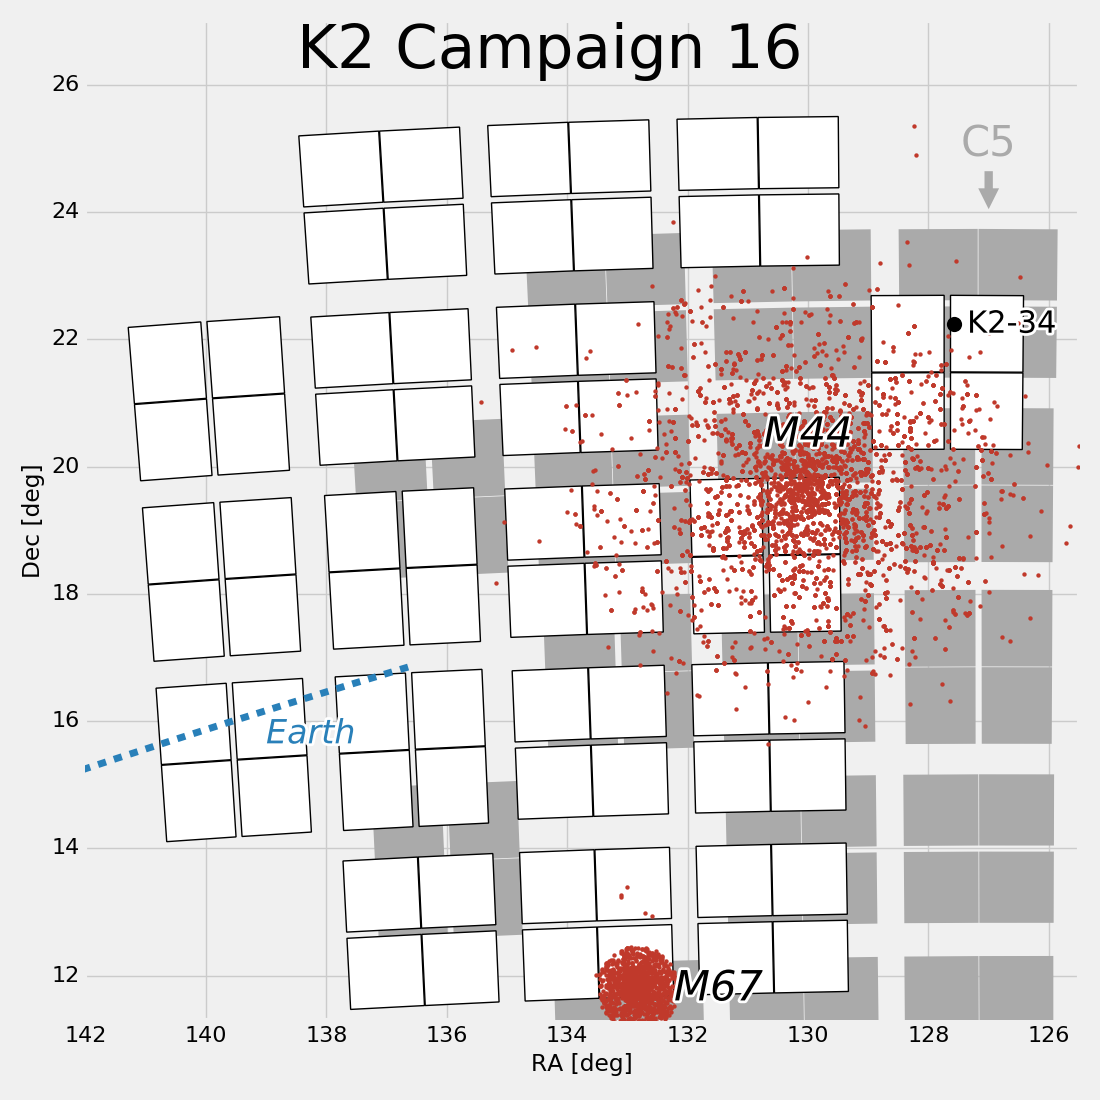
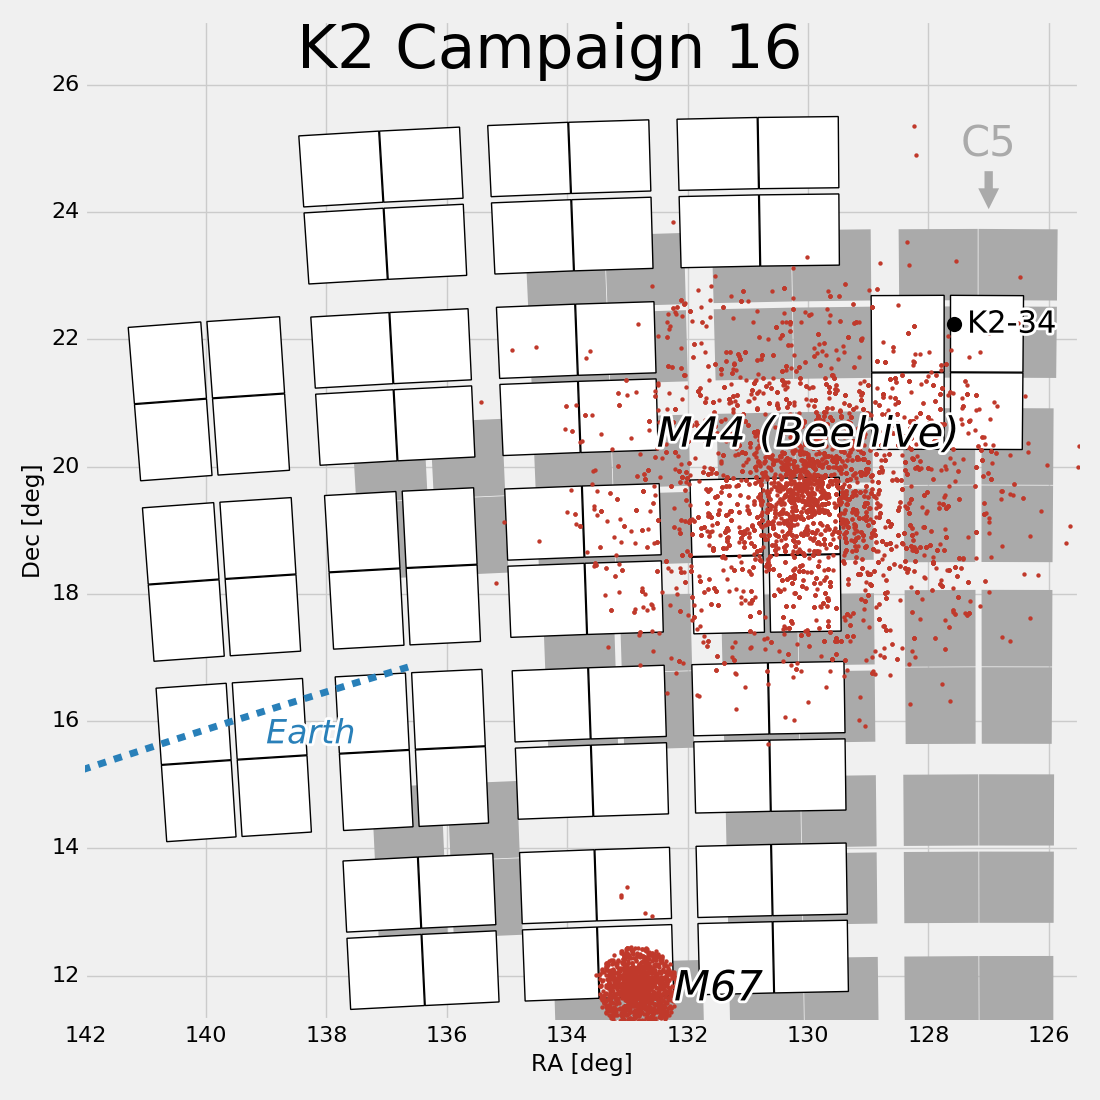
Add c4 and c5 plots

Changed region(s): [[0.5873, 0.3709, 0.8655, 0.4327]]

diff --git a/plot-c5.py b/plot-c5.py
@@ -6,40 +6,43 @@ from K2fov import plot
 
 from fieldplot import annotate_target
 
-CAMPAIGN = 7
+CAMPAIGN = 5
 
 style.use('gray.mplstyle')
 p = plot.K2FootprintPlot(figsize=(11, 11))
+p.plot_campaign(16, annotate_channels=False, facecolor='#aaaaaa', lw=0)
 p.plot_campaign(CAMPAIGN, annotate_channels=False, facecolor='white', lw=1)
 
+pl.annotate('C16', xy=(137, 11.5), xycoords='data', ha='center',
+            xytext=(10, -60), textcoords='offset points',
+            size=30, zorder=99999, color='#aaaaaa',
+            arrowprops=dict(arrowstyle="simple",
+                            fc="#aaaaaa", ec="none",
+                            connectionstyle="arc3,rad=0.0"),
+            )
 
-# Plot the Ruprecht 147 cluster
+# Plot the Beehive cluster
 import pandas as pd
-df = pd.read_csv('catalogs/ruprecht147.csv')
+df = pd.read_csv('catalogs/beehive.csv')
 for member in df.iterrows():
     annotate_target(member[1].RA_d, member[1].DEC_d, "", size=10, color='#c0392b')
-text = pl.text(288.8 - 0.6, -16.5, 'Ruprecht 147', style='italic', color='#c0392b',
+text = pl.text(130., 20.5, 'M44 (Beehive)', style='italic', color='black',
+               zorder=999, fontsize=30, va='center', ha='center')
+text.set_path_effects([path_effects.Stroke(linewidth=4, foreground='white'),
+                       path_effects.Normal()])
+
+# Plot the M67 cluster
+df = pd.read_csv('catalogs/m67.csv')
+for member in df.iterrows():
+    annotate_target(member[1].RA_d, member[1].DEC_d, "", size=10, color='#c0392b')
+text = pl.text(132.8250 - 0.6, +11.8000, 'M67', style='italic', color='black',
                zorder=999, fontsize=30, va='center')
 text.set_path_effects([path_effects.Stroke(linewidth=4, foreground='white'),
                        path_effects.Normal()])
 
-
-# Plot Pluto
-ra = [284.29952, 284.14349, 284.02927, 283.96645, 283.94460,
-      283.97556, 284.06026, 284.19801, 284.47543]
-dec = [-20.95824, -20.99379, -21.02622, -21.05229, -21.07735,
-       -21.09791, -21.11365, -21.12435, -21.13067]
-pl.plot(ra, dec, lw=4, zorder=500, c='#2980b9')
-text = pl.text(284.9, -21.5, 'Pluto', zorder=999, style='italic',
-               fontsize=22, va='center', color='#2980b9')
-text.set_path_effects([path_effects.Stroke(linewidth=4, foreground='white'),
-                       path_effects.Normal()])
-
-annotate_target(283.77517, -22.70147, "NGC 6717", extended=True)
-
 pl.suptitle('K2 Campaign {}'.format(CAMPAIGN), fontsize=44)
-pl.xlim([297, 279])
-pl.ylim([-31.5, -14.1])
+pl.xlim([139, 122.5])
+pl.ylim([9.5, 25.9])
 p.ax.xaxis.set_major_locator(MultipleLocator(2))
 p.ax.yaxis.set_major_locator(MultipleLocator(2))
 pl.tight_layout()

diff --git a/plot-c4.py b/plot-c4.py
@@ -6,16 +6,16 @@ from K2fov import plot
 
 from fieldplot import annotate_target
 
-CAMPAIGN = 13
+CAMPAIGN = 4
 
 style.use('gray.mplstyle')
 p = plot.K2FootprintPlot(figsize=(11, 11))
 #p.plot_ecliptic()
-p.plot_campaign(4, annotate_channels=False, facecolor='#aaaaaa', lw=0)
+p.plot_campaign(13, annotate_channels=False, facecolor='#aaaaaa', lw=0)
 p.plot_campaign(CAMPAIGN, annotate_channels=False, facecolor='white', lw=1)
 
-pl.annotate('C4', xy=(63.9, 25.3), xycoords='data', ha='center',
-            xytext=(-40, 40), textcoords='offset points',
+pl.annotate('C13', xy=(66.8, 26), xycoords='data', ha='center',
+            xytext=(40, 40), textcoords='offset points',
             size=30, zorder=99999, color='#aaaaaa',
             arrowprops=dict(arrowstyle="simple",
                             fc="#aaaaaa", ec="none",
@@ -34,28 +34,21 @@ text = pl.text(67, 16, 'Hyades', style='italic', color='#c0392b',
 text.set_path_effects([path_effects.Stroke(linewidth=4, foreground='white'),
                        path_effects.Normal()])
 
-# Plot Taurus
-df = pd.read_csv('catalogs/taurus-auriga.csv')
+# Plot Pleiades
+import pandas as pd
+df = pd.read_csv('catalogs/pleiades.csv')
 for member in df.iterrows():
-    annotate_target(member[1]._RAJ2000, member[1]._DEJ2000, "", size=15, color='#c0392b')
+    annotate_target(member[1].RA_d, member[1].DEC_d, "", size=15, color='#c0392b')
 
-text = pl.text(67.9, 25.5, 'Taurus-Auriga', style='italic', color='#c0392b',
+text = pl.text(52.5, 24.3, 'Pleiades', style='italic', color='#c0392b',
                zorder=999, fontsize=30, va='center', ha='center')
 text.set_path_effects([path_effects.Stroke(linewidth=4, foreground='white'),
                        path_effects.Normal()])
 
-annotate_target(68.98016279, +16.50930235, "Aldebaran", ha='right')
-annotate_target(69.31157942, +18.54303399, "SZ Tau", ha='right')
-annotate_target(70.73241667, 18.95816667, "Gliese 176")
-annotate_target(67.910154, +18.232681, "HL Tau")
-annotate_target(69.824150, +22.350967, "LkCa 15", ha='right')
-annotate_target(75.9583, +23.77, "NGC 1746", extended=True, ha='right')
-annotate_target(78.0625, +16.69, "NGC 1817", extended=True, ha='right')
-annotate_target(71.4792, +19.115, "NGC 1647", extended=True, ha='right')
 
 pl.suptitle('K2 Campaign {}'.format(CAMPAIGN), fontsize=44)
-pl.xlim([82, 63.5])
-pl.ylim([12.5, 29.9])
+pl.xlim([69, 50.5])
+pl.ylim([10.5, 28.9])
 p.ax.xaxis.set_major_locator(MultipleLocator(2))
 p.ax.yaxis.set_major_locator(MultipleLocator(2))
 pl.tight_layout()

diff --git a/plot-c16.py b/plot-c16.py
@@ -24,6 +24,7 @@ pl.annotate('C5', xy=(127, 24), xycoords='data', ha='center',
 
 annotate_target(127.578771, +22.235908, "K2-34")
 
+
 text = pl.text(240.2, -23.2, 'Upper Sco', style='italic',
                zorder=999, fontsize=22, va='center', ha='center')
 text.set_path_effects([path_effects.Stroke(linewidth=4, foreground='white'),
@@ -48,7 +49,7 @@ import pandas as pd
 df = pd.read_csv('catalogs/beehive.csv')
 for member in df.iterrows():
     annotate_target(member[1].RA_d, member[1].DEC_d, "", size=10, color='#c0392b')
-text = pl.text(130., 20.5, 'M44', style='italic', color='black',
+text = pl.text(130., 20.5, 'M44 (Beehive)', style='italic', color='black',
                zorder=999, fontsize=30, va='center', ha='center')
 text.set_path_effects([path_effects.Stroke(linewidth=4, foreground='white'),
                        path_effects.Normal()])
